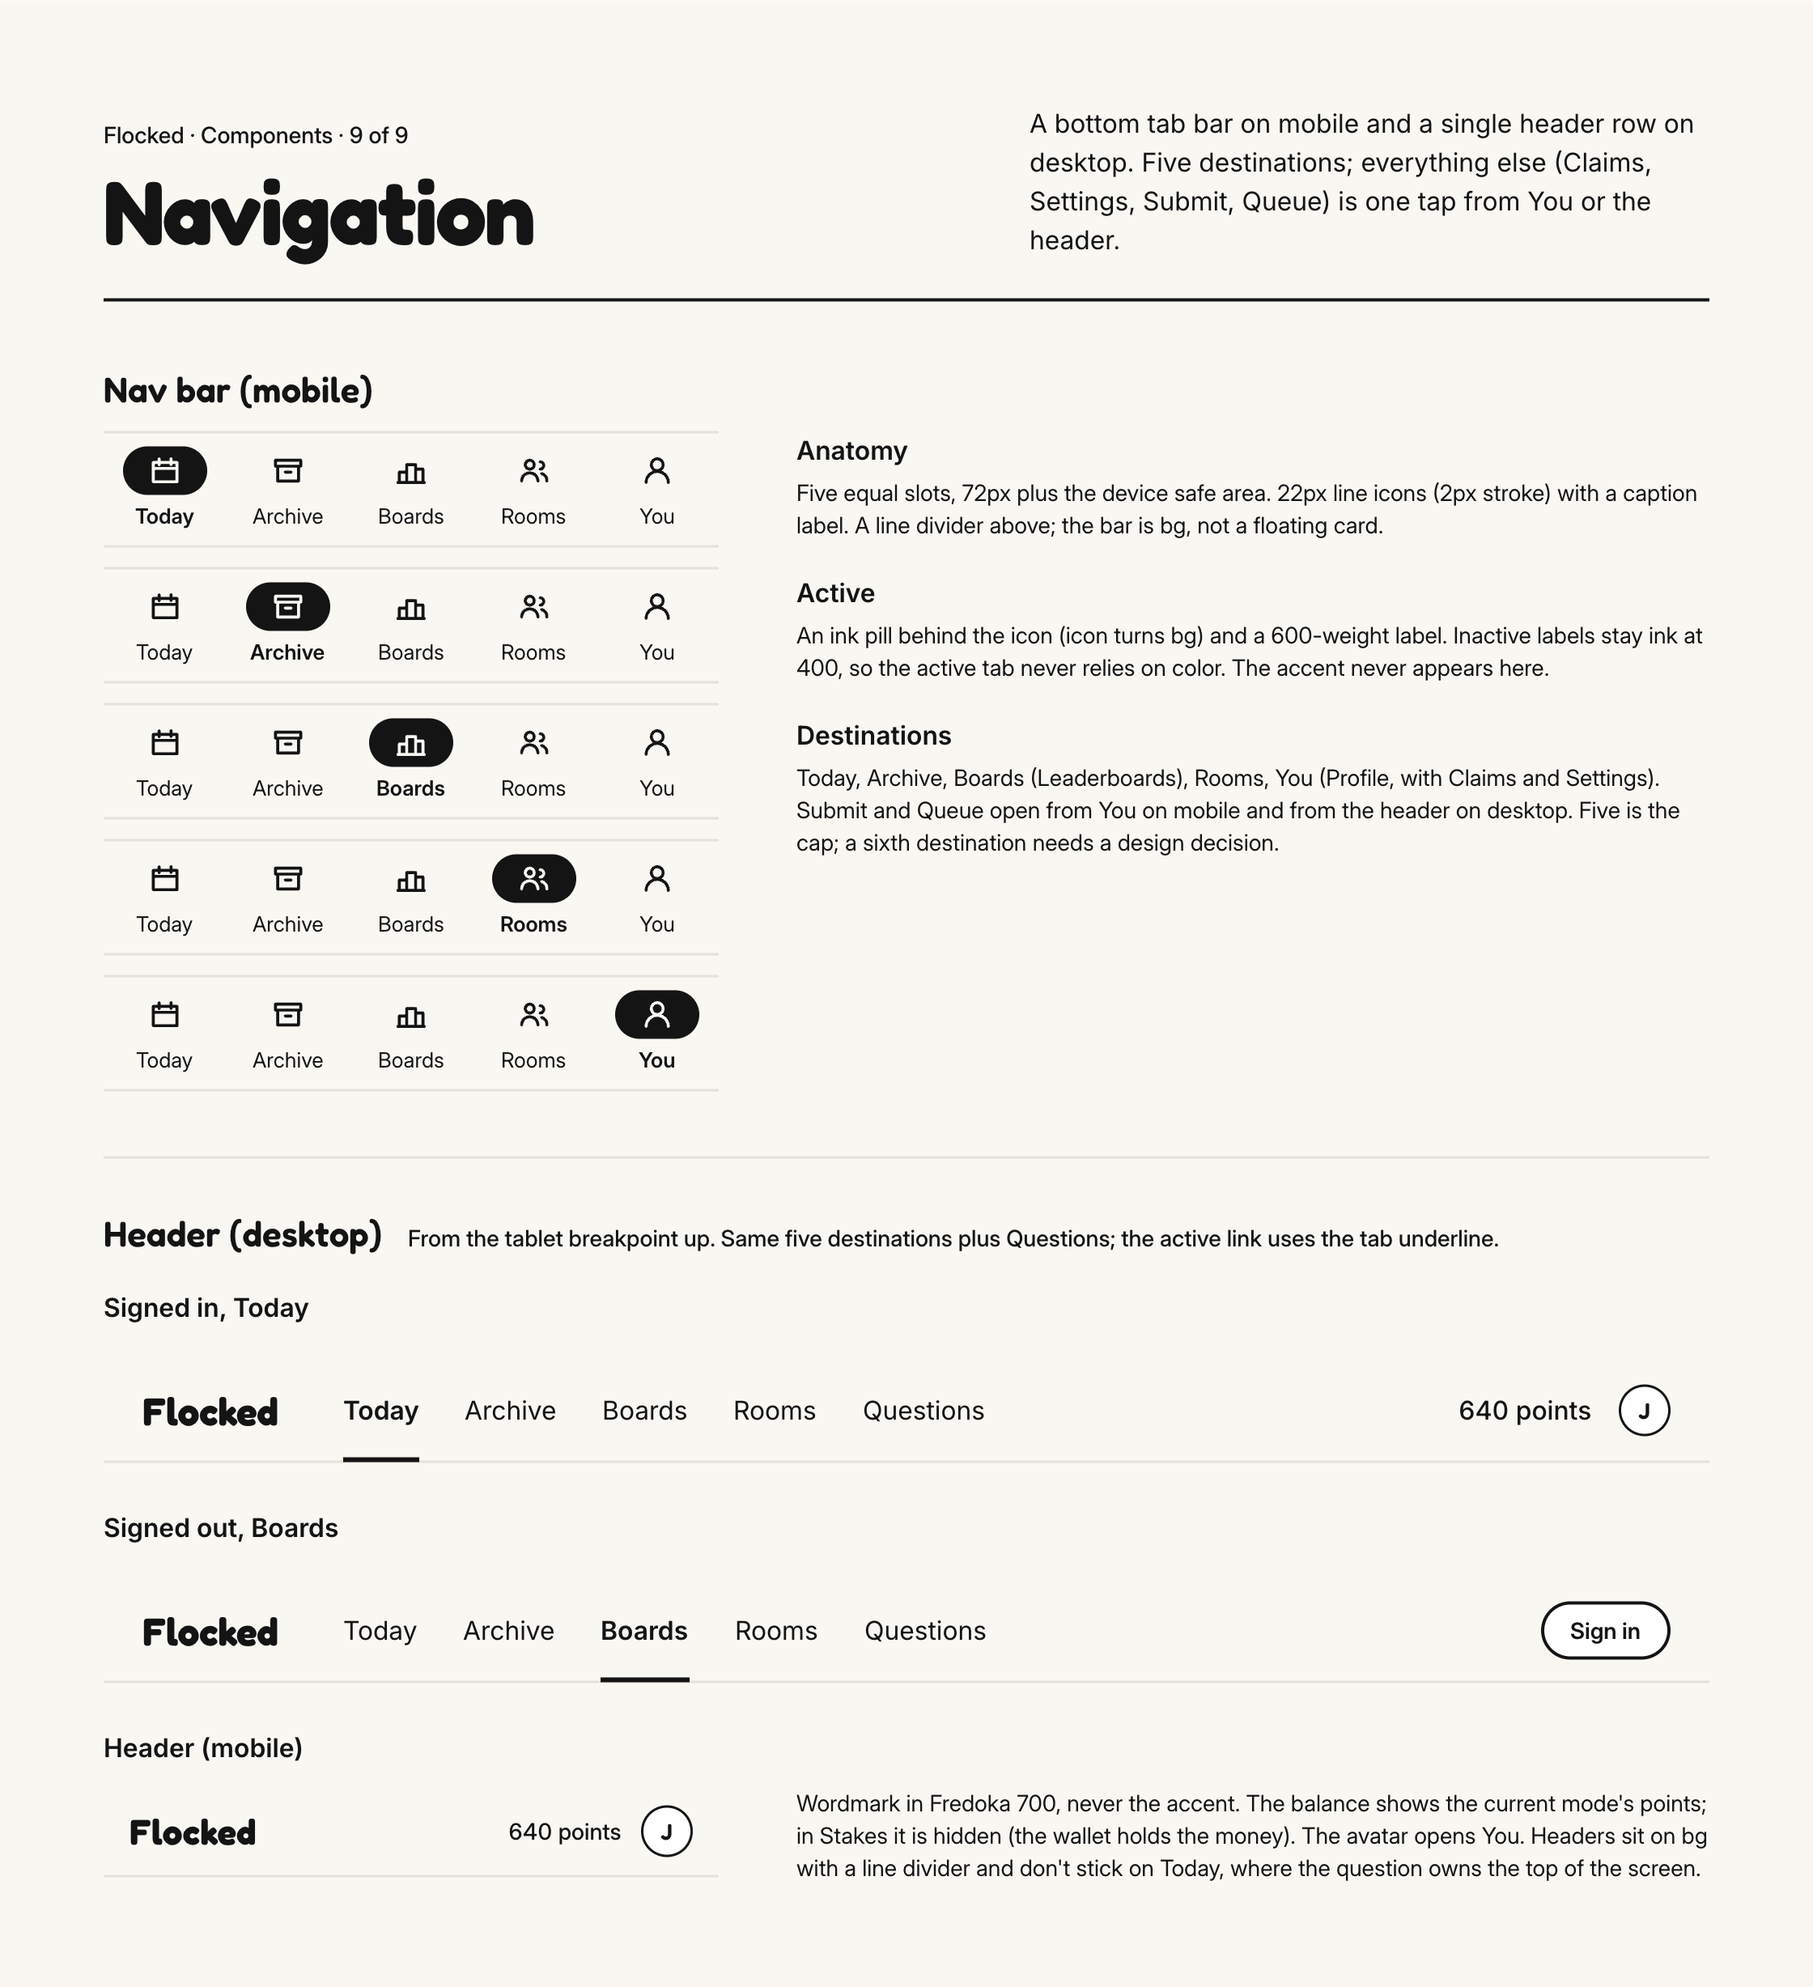
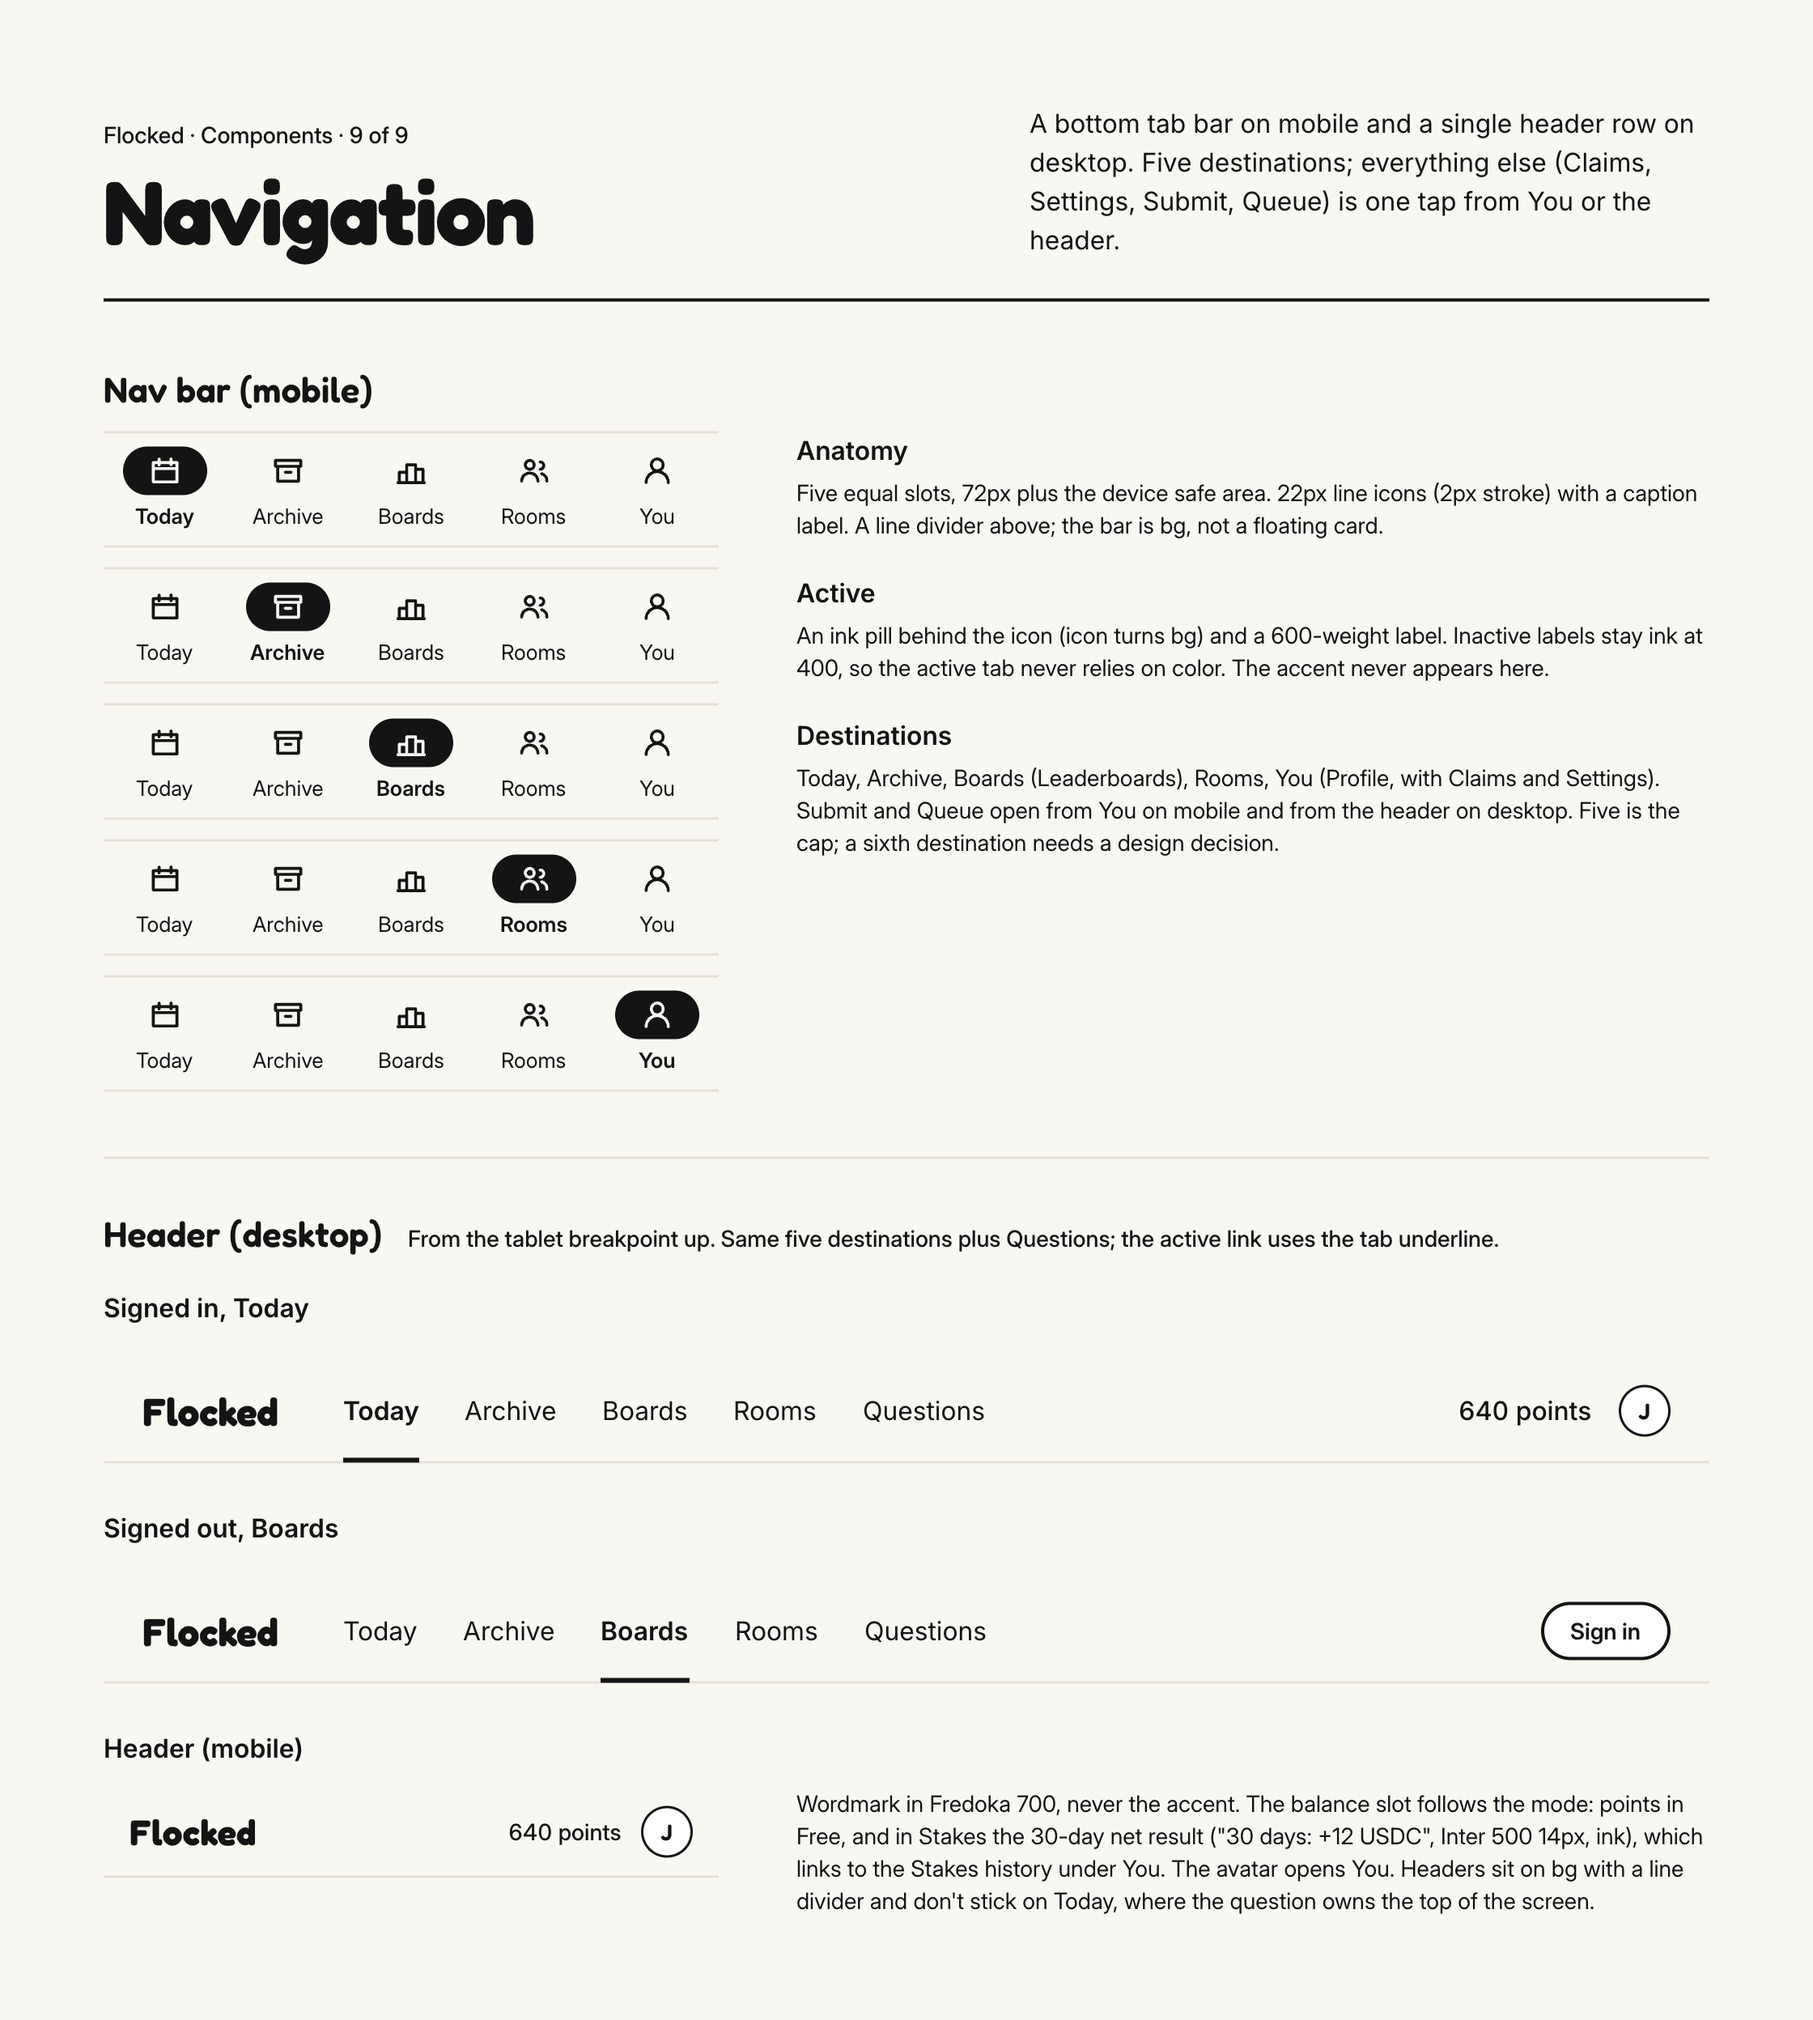
Apply the Oct 9 Components fixes: 30-day net note and m:ss unsealing countdown
Update the navigation sheet's header note (the balance slot shows the 30-day
net in Stakes) and add the unsealing-countdown exception to the round-status
sheet, re-export both sheets light and dark at 2x, and update their rows.

diff --git a/docs/design/screens.md b/docs/design/screens.md
@@ -46,12 +46,12 @@ keeps its fixed outline and wool colors (Foundations rule), with legs and shock 
 | `components/option-card/{light,dark}/desktop` | Client app (Today, Reveal) | option card | idle, hover, pressed, selected, focus, disabled, revealed-win, revealed-loss (with "Your pick" pill), rounding note | `exports/components/option-card__{light,dark}__desktop.png` | review |
 | `components/actions/{light,dark}/desktop` | Client app (Today) | primary CTA pill, secondary pill, mode toggle, tabs | CTA default, pressed, loading, disabled; secondary default, hover/pressed, disabled, small; toggle Free, Stakes, Stakes hidden (static label); tabs active, rest, hover | `exports/components/actions__{light,dark}__desktop.png` | review |
 | `components/stake-selector/{light,dark}/desktop` | Client app (Today) | stake selector | Free: preset picked, slider between presets, low balance (presets above the balance disabled); Stakes: fixed, over the daily cap | `exports/components/stake-selector__{light,dark}__desktop.png` | review |
-| `components/round-status/{light,dark}/desktop` | Client app (Today, Sealed, Reveal) | countdown, entrant/pool counter, padlock sealed badge, sealed pick, split bars | countdown to close and to reveal; counter Free and Stakes; badge and locked pick; bars equal, settled with win accent, tie (refund), extreme (<1% / >99%) | `exports/components/round-status__{light,dark}__desktop.png` | review |
+| `components/round-status/{light,dark}/desktop` | Client app (Today, Sealed, Reveal) | countdown, entrant/pool counter, padlock sealed badge, sealed pick, split bars | countdown to close and to reveal (hh:mm:ss), note on the one exception: the unsealing countdown is m:ss (Oct 9 decision, W5-C); counter Free and Stakes; badge and locked pick; bars equal, settled with win accent, tie (refund), extreme (<1% / >99%) | `exports/components/round-status__{light,dark}__desktop.png` | review |
 | `components/result-card/{light,dark}/desktop` | Client app (Reveal); Decision log (voice lines) | result card | unflocked (winLine(38)), got flocked (lossLine(62)), refunded (tie), unflocked provisional with "Final at" (Stakes) | `exports/components/result-card__{light,dark}__desktop.png` | review |
 | `components/feedback/{light,dark}/desktop` | Client app | toast/error, empty state, skeleton, offline banner | toast with action, error with retry, error with a known cause (4xx), empty state (neutral sheep), skeleton of Today, offline banner under the mobile header | `exports/components/feedback__{light,dark}__desktop.png` | review |
 | `components/lists/{light,dark}/desktop` | Client app (Leaderboards, Archive, Profile) | list row, leaderboard row, avatar | archive rows (win, loss, refunded) with mini split; leaderboard default, live stray streak (accent pill), you; avatar 64/40/32/24 | `exports/components/lists__{light,dark}__desktop.png` | review |
 | `components/forms-overlays/{light,dark}/desktop` | Client app (Submit, Settings, Onboarding) | form field, modal, bottom sheet | field empty, focus, error; onboarding modal (card 1 of 3) on a scrim; bottom sheet (Stakes verification) | `exports/components/forms-overlays__{light,dark}__desktop.png` | review |
-| `components/navigation/{light,dark}/desktop` | Client app | nav bar (mobile), header (desktop and mobile) | nav bar active on each of Today, Archive, Boards, Rooms, You; desktop header signed in (Today) and signed out (Boards); mobile header | `exports/components/navigation__{light,dark}__desktop.png` | review |
+| `components/navigation/{light,dark}/desktop` | Client app | nav bar (mobile), header (desktop and mobile) | nav bar active on each of Today, Archive, Boards, Rooms, You; desktop header signed in (Today) and signed out (Boards); mobile header, with the note that the balance slot shows points in Free and the 30-day net in Stakes (Oct 9 decision, W5-C; replaced "balance hidden in Stakes") | `exports/components/navigation__{light,dark}__desktop.png` | review |
 
 Mascot poses (on the component list in wave-2.md) live on the Foundations page, light and dark.
 
